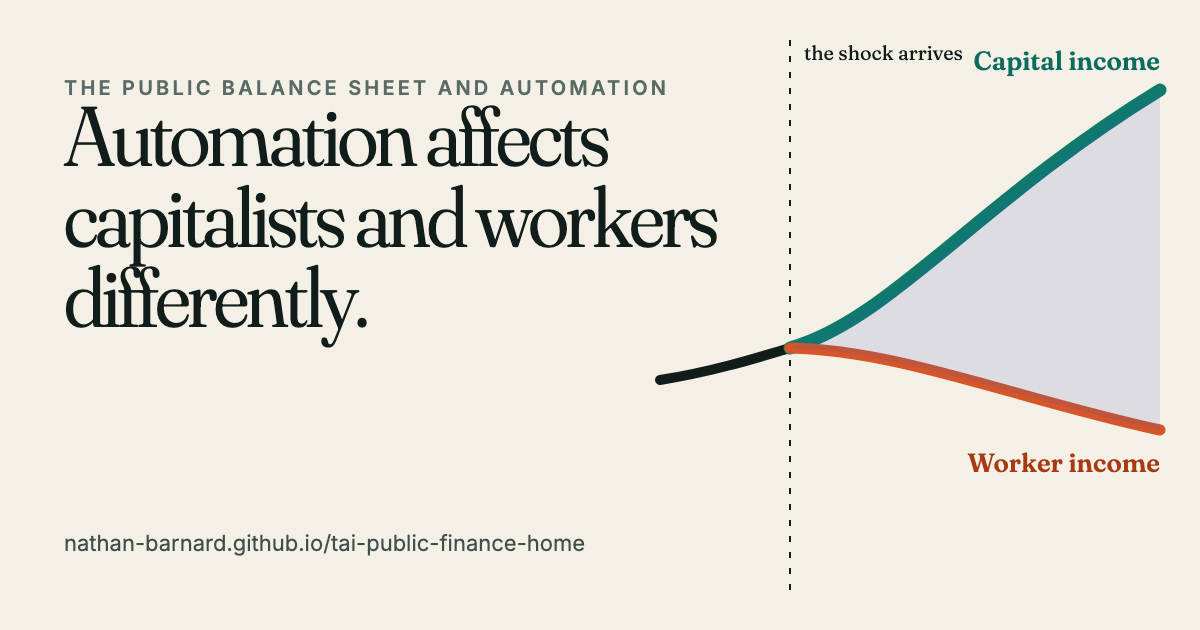
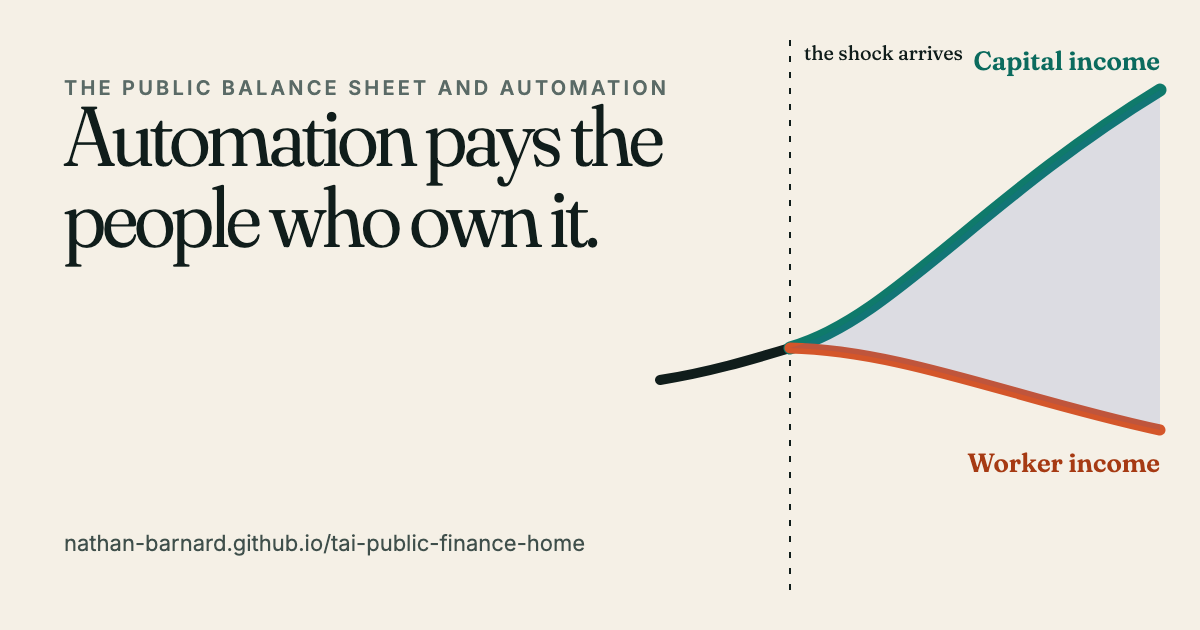
Sharpen the opening headline
"Automation pays the people who own it." replaces the longer line in the
hero, the page metadata and the social image. The supporting paragraph
is unchanged.

Changed region(s): [[0.0308, 0.3016, 0.6167, 0.5429], [0.3392, 0.1508, 0.555, 0.3016]]

diff --git a/index.html b/index.html
@@ -6,7 +6,7 @@
     <title>Automation Risk and the Public Balance Sheet</title>
     <meta
       name="description"
-      content="Automation affects capitalists and workers differently. A visual argument about who owns the gains from automation, and when public ownership actually reaches the workers who are left behind."
+      content="Automation pays the people who own it. A visual argument about who owns the gains from automation, and when public ownership actually reaches the workers who are left behind."
     />
     <meta name="theme-color" content="#f5f0e6" />
     <meta name="color-scheme" content="light" />
@@ -41,7 +41,7 @@
     />
     <meta
       property="og:description"
-      content="Automation affects capitalists and workers differently. A visual argument about who owns the gains from automation, and when public ownership actually reaches the workers who are left behind."
+      content="Automation pays the people who own it. A visual argument about who owns the gains from automation, and when public ownership actually reaches the workers who are left behind."
     />
     <meta
       property="og:url"
@@ -55,7 +55,7 @@
     <meta property="og:image:height" content="630" />
     <meta
       property="og:image:alt"
-      content="Automation affects capitalists and workers differently. Two income paths move together, then split apart when an automation shock arrives."
+      content="Automation pays the people who own it. Two income paths move together, then split apart when an automation shock arrives."
     />
     <meta name="twitter:card" content="summary_large_image" />
     <meta
@@ -64,7 +64,7 @@
     />
     <meta
       name="twitter:description"
-      content="Automation affects capitalists and workers differently. A visual argument about who owns the gains from automation, and when public ownership actually reaches the workers who are left behind."
+      content="Automation pays the people who own it. A visual argument about who owns the gains from automation, and when public ownership actually reaches the workers who are left behind."
     />
     <meta
       name="twitter:image"

diff --git a/explore/index.html b/explore/index.html
@@ -52,7 +52,7 @@
     <meta property="og:image:height" content="630" />
     <meta
       property="og:image:alt"
-      content="Automation affects capitalists and workers differently. Two income paths move together, then split apart when an automation shock arrives."
+      content="Automation pays the people who own it. Two income paths move together, then split apart when an automation shock arrives."
     />
     <meta name="twitter:card" content="summary_large_image" />
     <meta name="twitter:title" content="The Public Balance Sheet Lab" />

diff --git a/404.html b/404.html
@@ -52,7 +52,7 @@
     <meta property="og:image:height" content="630" />
     <meta
       property="og:image:alt"
-      content="Automation affects capitalists and workers differently. Two income paths move together, then split apart when an automation shock arrives."
+      content="Automation pays the people who own it. Two income paths move together, then split apart when an automation shock arrives."
     />
     <meta name="twitter:card" content="summary_large_image" />
     <meta name="twitter:title" content="Page not found" />

diff --git a/src/content/story.ts b/src/content/story.ts
@@ -7,7 +7,7 @@ export const storySections: StorySection[] = [
   {
     slug: 'top',
     eyebrow: 'The public balance sheet and automation',
-    headline: 'Automation affects capitalists and workers differently.',
+    headline: 'Automation pays the people who own it.',
     body: [
       'When new technology raises profits and asset values, people who own capital share in the upside automatically. Workers who do not own those assets may not.',
       'The question is who owns the claims on the wealth automation creates.',

diff --git a/dashboard/index.html b/dashboard/index.html
@@ -57,7 +57,7 @@
     <meta property="og:image:height" content="630" />
     <meta
       property="og:image:alt"
-      content="Automation affects capitalists and workers differently. Two income paths move together, then split apart when an automation shock arrives."
+      content="Automation pays the people who own it. Two income paths move together, then split apart when an automation shock arrives."
     />
     <meta name="twitter:card" content="summary_large_image" />
     <meta

diff --git a/research/index.html b/research/index.html
@@ -55,7 +55,7 @@
     <meta property="og:image:height" content="630" />
     <meta
       property="og:image:alt"
-      content="Automation affects capitalists and workers differently. Two income paths move together, then split apart when an automation shock arrives."
+      content="Automation pays the people who own it. Two income paths move together, then split apart when an automation shock arrives."
     />
     <meta name="twitter:card" content="summary_large_image" />
     <meta

diff --git a/README.md b/README.md
@@ -2,9 +2,9 @@
 
 The public home of the research project *Automation Risk and the Public Balance
 Sheet*. The [website](https://nathan-barnard.github.io/tai-public-finance-home/)
-is a long-form visual argument about one idea: automation affects capitalists and
-workers differently, and public ownership only helps workers when the public asset
-pays in the futures where they are left behind. Seven guided Jupyter notebooks then
+is a long-form visual argument about one idea: automation pays the people who own
+it, and public ownership only helps workers when the public asset pays in the futures
+where they are left behind. Seven guided Jupyter notebooks then
 develop the models and computational route in depth.
 
 > **Status:** the website is a complete visual essay with an interactive lab, a
